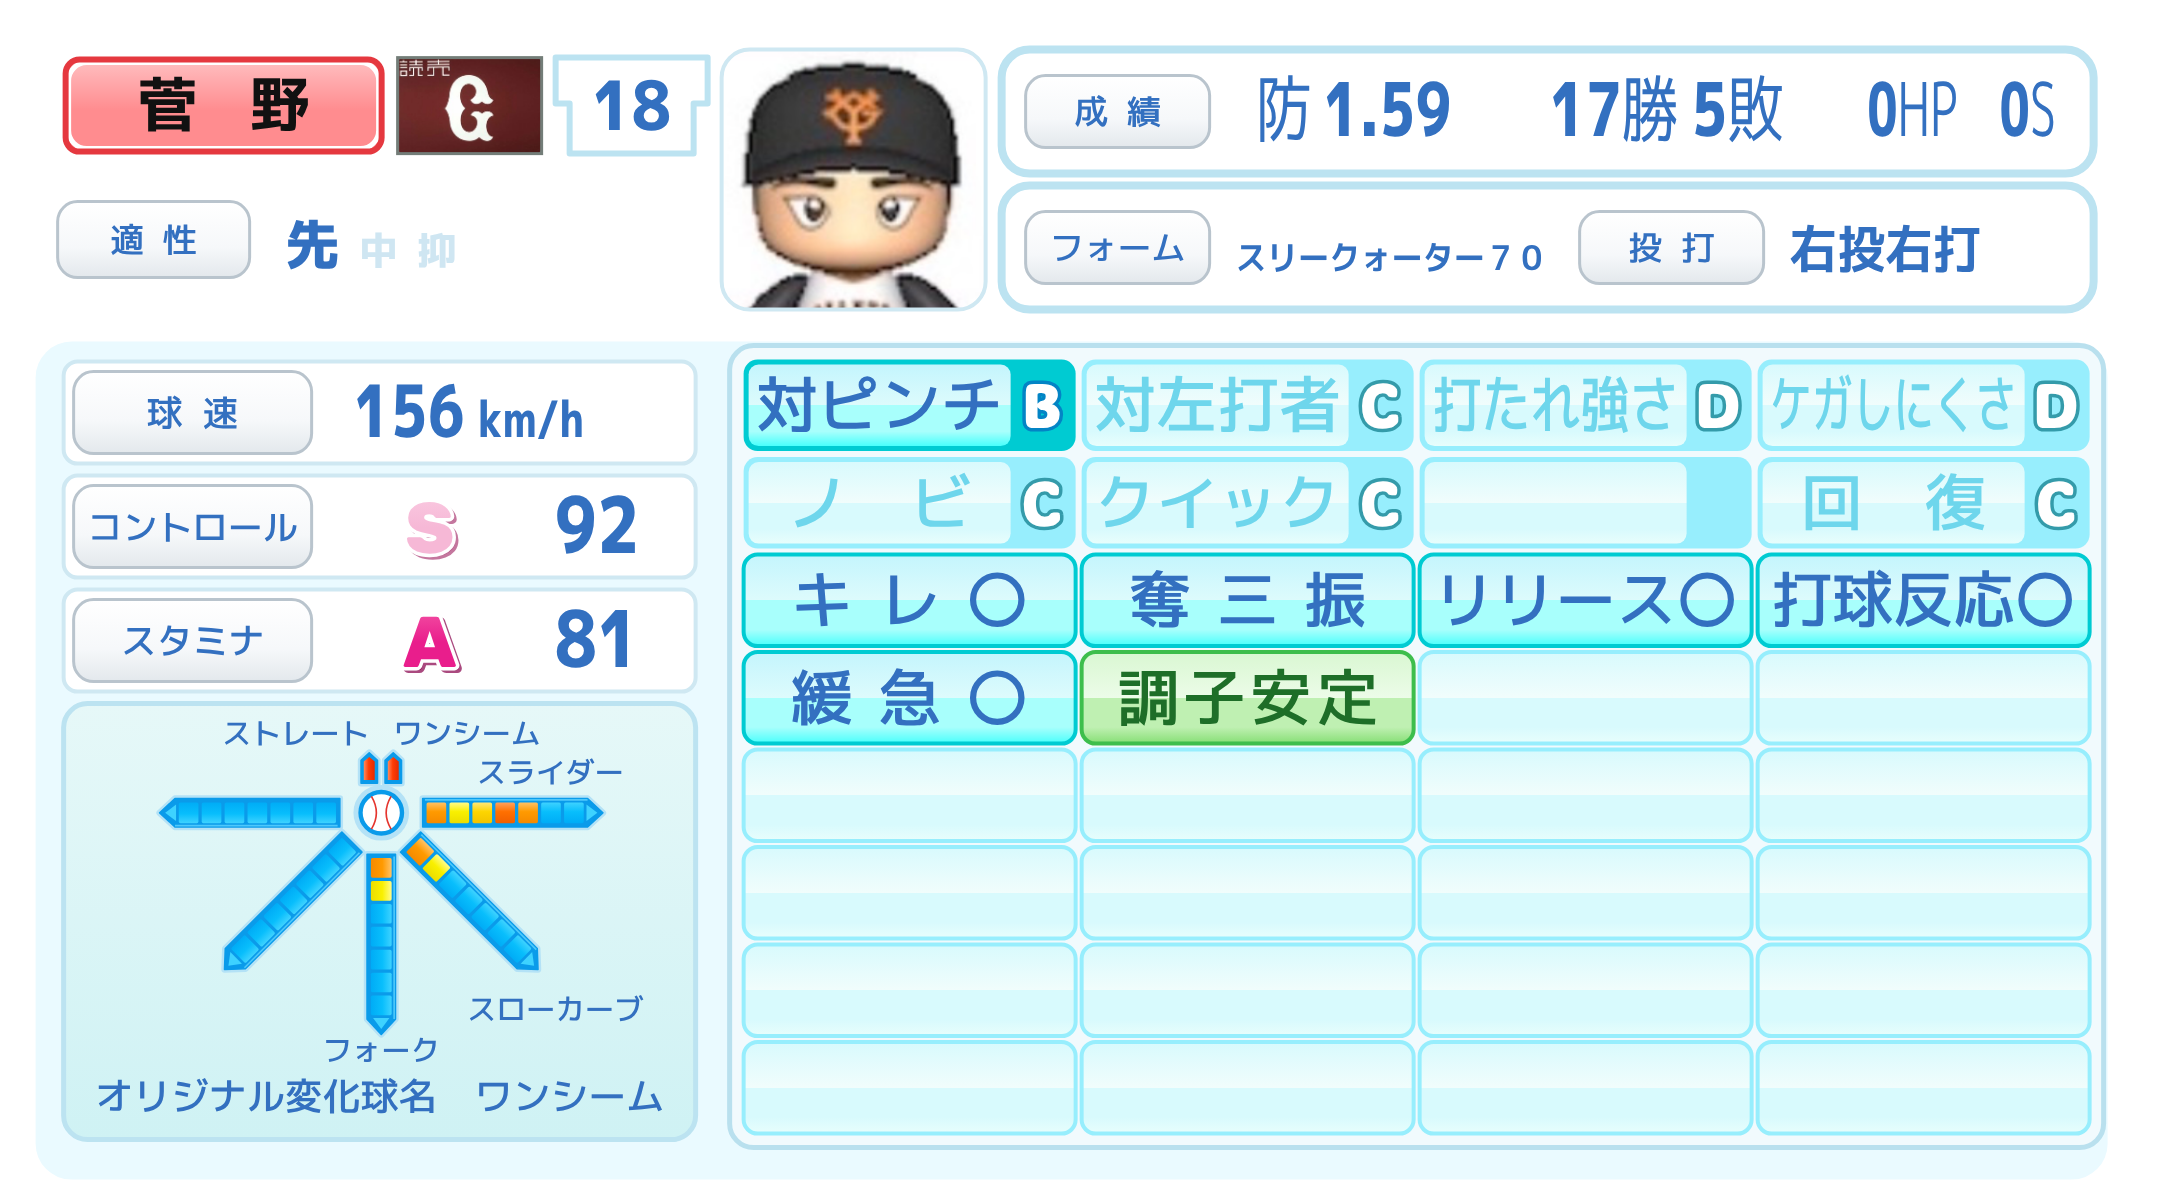
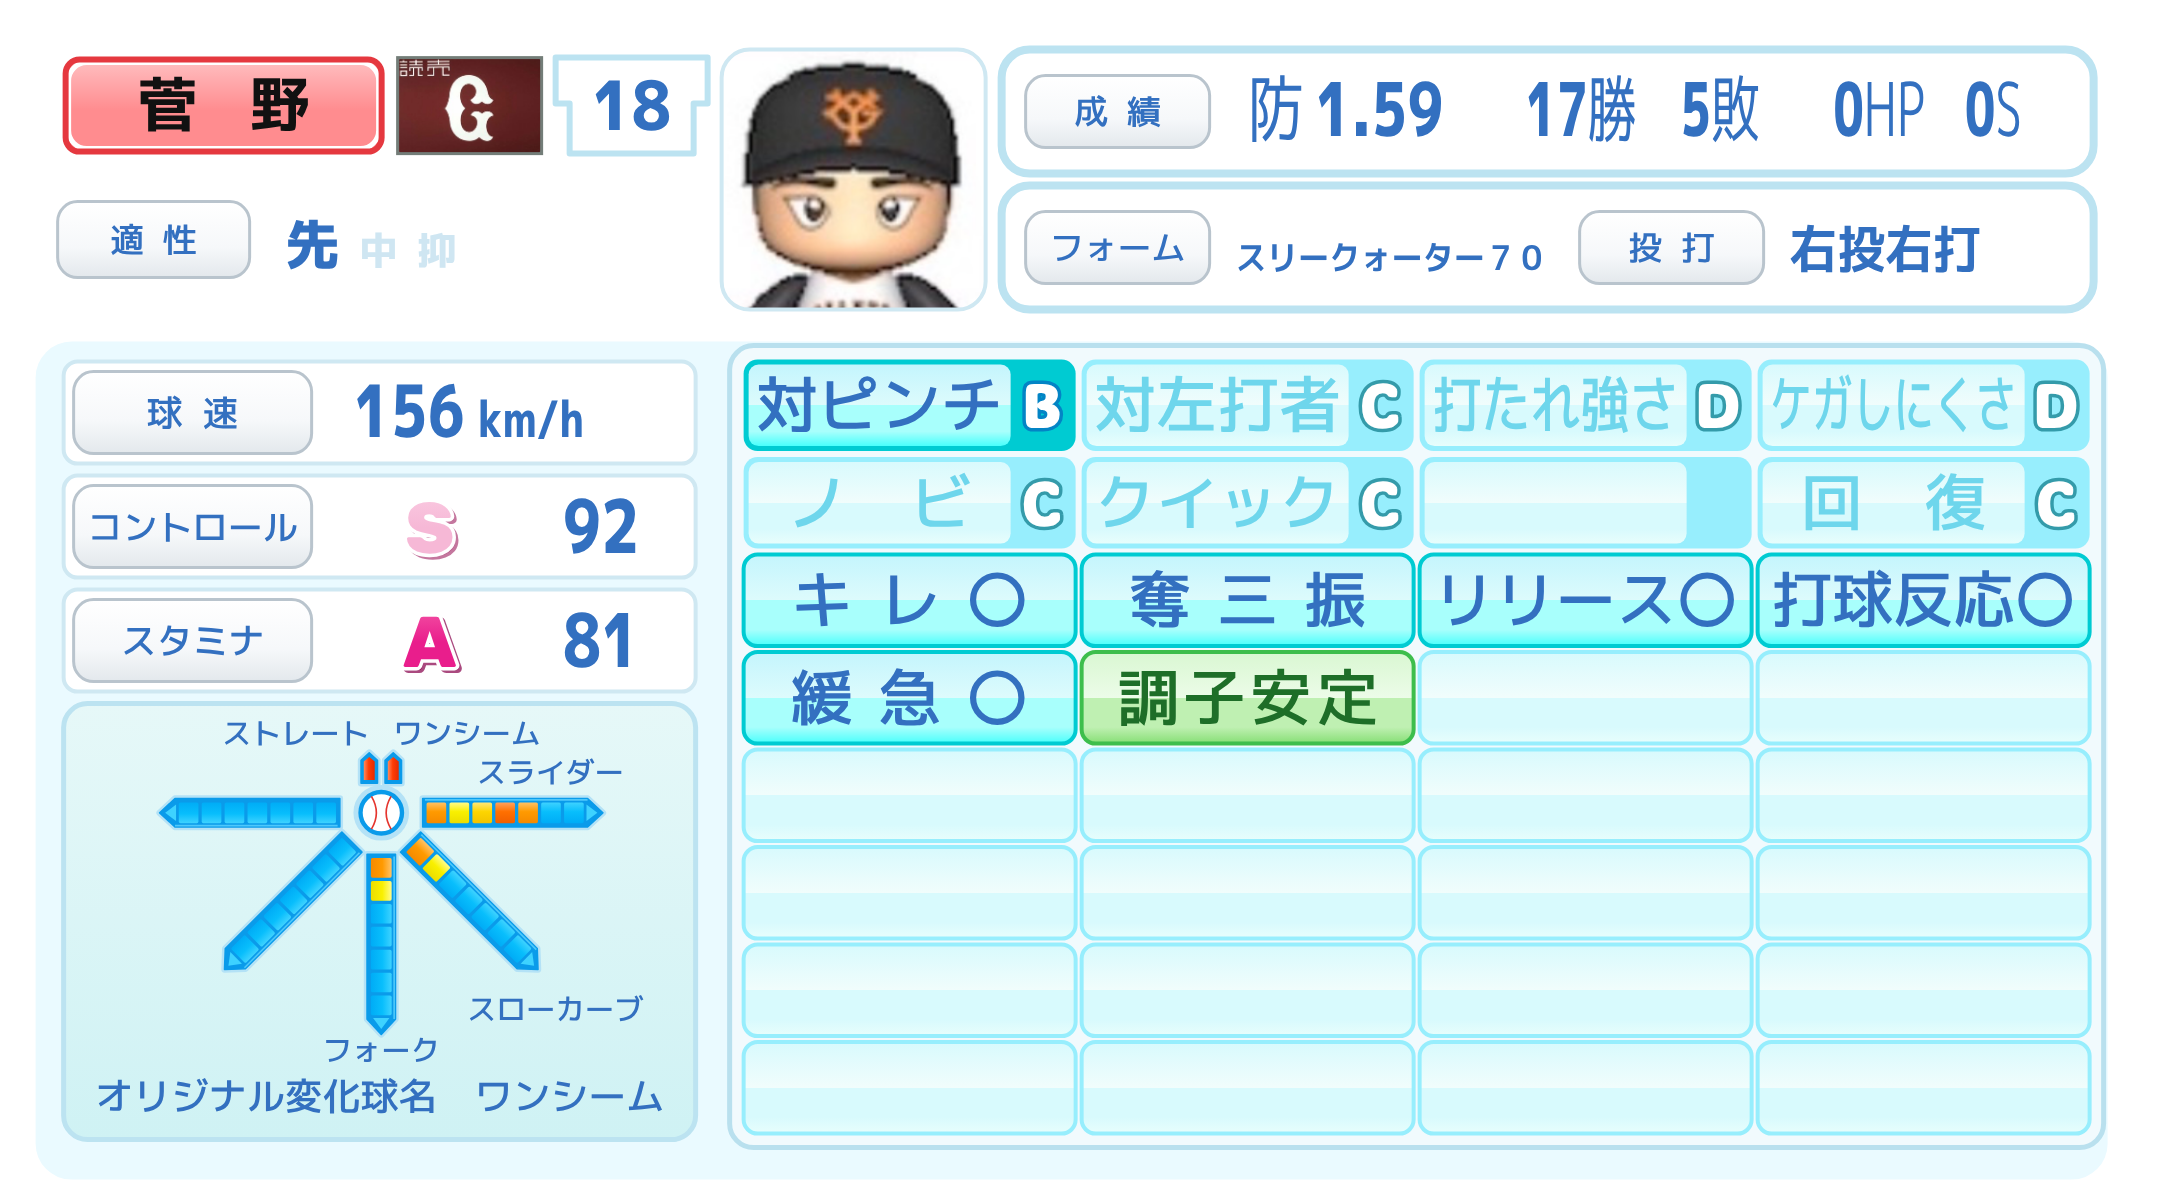
能力画像ジェネレーター（投手）：コントロール・スタミナの数字を実機の大きさにし、勝と敗の間を空ける
Claude-Session: https://claude.ai/code/session_01SKh1jhAp32CEmbZCaaEmgk

diff --git a/nouryoku-pitcher/index.html b/nouryoku-pitcher/index.html
@@ -396,7 +396,7 @@ footer.disclaimer{ margin-top:30px; font-size:0.82rem; color:var(--ink-mute); bo
 </p>
 
 <p>
-<img src="/nouryoku-pitcher/example-sugano.png?v=9" alt="パワプロ風 能力画像ジェネレーター（投手）で作成した能力画像の例" width="2164" height="1201" loading="lazy" style="max-width:100%; height:auto; border:1px solid #c2cad6; border-radius:12px;">
+<img src="/nouryoku-pitcher/example-sugano.png?v=10" alt="パワプロ風 能力画像ジェネレーター（投手）で作成した能力画像の例" width="2164" height="1201" loading="lazy" style="max-width:100%; height:auto; border:1px solid #c2cad6; border-radius:12px;">
 </p>
 
 <h2>よくある質問</h2>
@@ -937,11 +937,11 @@ var L = {
     posValue:    { x: 164, y: 99,  w: 188, h: 42 },
     bioRow1:     { x: 501, y: 25,  w: 546, h: 62 },
     bio1Label:   { x: 513, y: 38,  w: 92,  h: 36 },
-    /* 実機の並べ方：「防 3.19」「6勝 7敗」「0HP  0S」。gap は2つ目の数字の前の空き（縮める前の幅） */
+    /* 実機の並べ方：「防 3.19」「6勝  7敗」「0HP  0S」。gap は2つ目の数字の前の空き（縮める前の幅） */
     bio1Vals:    [
-        { x: 628, y: 36, w: 135, keys: ["era"], pre: "防" },
-        { x: 775, y: 36, w: 150, keys: ["win", "lose"], pre: "", gap: 9 },
-        { x: 934, y: 36, w: 108, keys: ["hp", "sv"], pre: "", gap: 34 }
+        { x: 624, y: 36, w: 128, keys: ["era"], pre: "防" },
+        { x: 763, y: 36, w: 146, keys: ["win", "lose"], pre: "", gap: 34 },
+        { x: 917, y: 36, w: 122, keys: ["hp", "sv"], pre: "", gap: 32 }
     ],
     bioRow2:     { x: 501, y: 93,  w: 546, h: 62 },
     bio2Label1:  { x: 513, y: 106, w: 92,  h: 36 },
@@ -1465,7 +1465,7 @@ function renderCard() {
         }
         var rankText = rankLetter(L.statRankX + L.statRankW / 2, y + h / 2 + 13, rank, 36);
         return base + rankText +
-               '<text data-squeeze="0.84" data-max="' + (L.statNumW - 24) + '" x="' + (L.statNumX + L.statNumW - 28) + '" y="' + (y + h / 2 + 13) + '" text-anchor="end" font-size="39" font-weight="800" fill="#3370C0" font-family="&quot;M PLUS 1p&quot;,&quot;Hiragino Kaku Gothic ProN&quot;,sans-serif">' + esc(v) + '</text>';
+               '<text data-squeeze="0.8" data-max="' + (L.statNumW - 24) + '" x="' + (L.statNumX + L.statNumW - 28) + '" y="' + (y + h / 2 + 13) + '" text-anchor="end" font-size="37" font-weight="800" fill="#3370C0" font-family="&quot;M PLUS 1p&quot;,&quot;Hiragino Kaku Gothic ProN&quot;,sans-serif">' + esc(v) + '</text>';
     }).join("");
 
     /* 変化球の枠は、能力値3行のすぐ下から、特殊能力バッジ8行目の下端と
